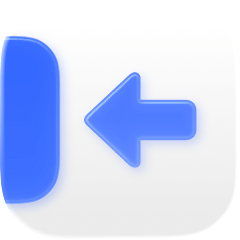
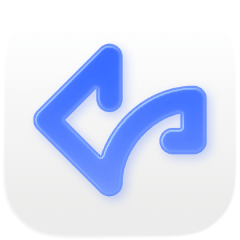
sidesearch v2.0

diff --git a/src/projects/sidesearch.md b/src/projects/sidesearch.md
@@ -5,7 +5,7 @@ permalink: "/projects/sidesearch/"
 title: "Side Search"
 description: "音声アシスタントを好きなものにカスタマイズ"
 icon: "/assets/projects/sidesearch/icon.png"
-version: "1.0"
+version: "2.0"
 links:
   itunes_app: "6756973793"
   appstore: "https://apps.apple.com/app/side-search/id6756973793"
@@ -15,7 +15,7 @@ links:
 
 {{ components.appbox(title, description=description, type="title", icon=icon) }}
 
-サイドボタンやアクションボタンなどからすばやく起動して、お好みのAIアシスタントや検索エンジンを、あなたの音声アシスタントにすることができます。対応する地域で、サイドボタンを長押しして起動できる音声対応アプリです。
+お好みのAIアシスタントや検索エンジンを、あなたの音声アシスタントにします。対応する地域では、サイドボタンを長押しして起動できる音声対応アプリです。
 
 ## ダウンロード
 
@@ -40,6 +40,27 @@ links:
     <li>日本語</li>
   </ul>
 </details>
+
+## 機能
+
+### サイドボタンから起動
+
+対応する地域では、サイドボタンにSide Searchを割り当てることができます。
+お好みのアシスタントを、デフォルトのアシスタントにしましょう。
+
+### アシスタント
+
+#### URLベースアシスタント
+
+カスタムのURLを設定することで、さまざまなAIアシスタントや検索エンジンをアシスタントにできます。
+
+#### Apple Foundation Models
+
+Apple Intelligenceに対応しているデバイスで、プライバシー重視のモデルと会話をすることができます。
+
+#### Google Gemini API
+
+ご自身のAPIキーを使用して、Geminiと会話をしたり、Web検索を頼むことができます。
 
 ## ライセンス
 

diff --git a/src/posts/2026/2026-01-29-sidesearch2.0.md b/src/posts/2026/2026-01-29-sidesearch2.0.md
@@ -1,0 +1,41 @@
+---
+layout: "post"
+lang: "en"
+permalink: "/posts/sidesearch2.0/"
+title: "Side Search 2.0 is out"
+icon: "/assets/projects/sidesearch/icon.png"
+tags: ['sidesearch']
+---
+
+- Added a setting to switch assistants
+- Added support for conversational assistants
+- Added Apple Foundation Models to the assistant
+  - Only available on devices that support Apple Intelligence
+- Added Google Gemini API to the assistant
+  - You need to obtain your own API Key from Google AI Studio
+  - You can use the web search feature
+- Redesigned the assistant's UI
+- Changed the app icon
+  - Made it possible to change the app icon
+- Changed or removed some settings
+- Made some other adjustments
+
+Update is available on the [App Store]({{ collections.projects.sidesearch.links.appstore }}) and [AltStore PAL](https://i.cizzuk.net/altstore/).
+
+<details lang="ja">
+<summary>日本語</summary>
+
+- アシスタントを切り替える設定を追加しました
+- 対話型のアシスタントに対応しました
+- アシスタントに、Apple Foundation Modelsを追加しました
+  - Apple Intelligenceに対応しているデバイスでのみ利用できます
+- アシスタントに、Google Gemini APIを追加しました
+  - Google AI Studioでご自身のAPIキーを取得する必要があります
+  - Geminiによる検索機能を利用できます
+- アシスタントのUIを刷新しました
+- アプリのアイコンを変更しました
+  - アプリのアイコンを変更できるようにしました
+- 一部の設定項目を変更または削除しました
+- その他いくつかの調整を行いました
+
+</details>
